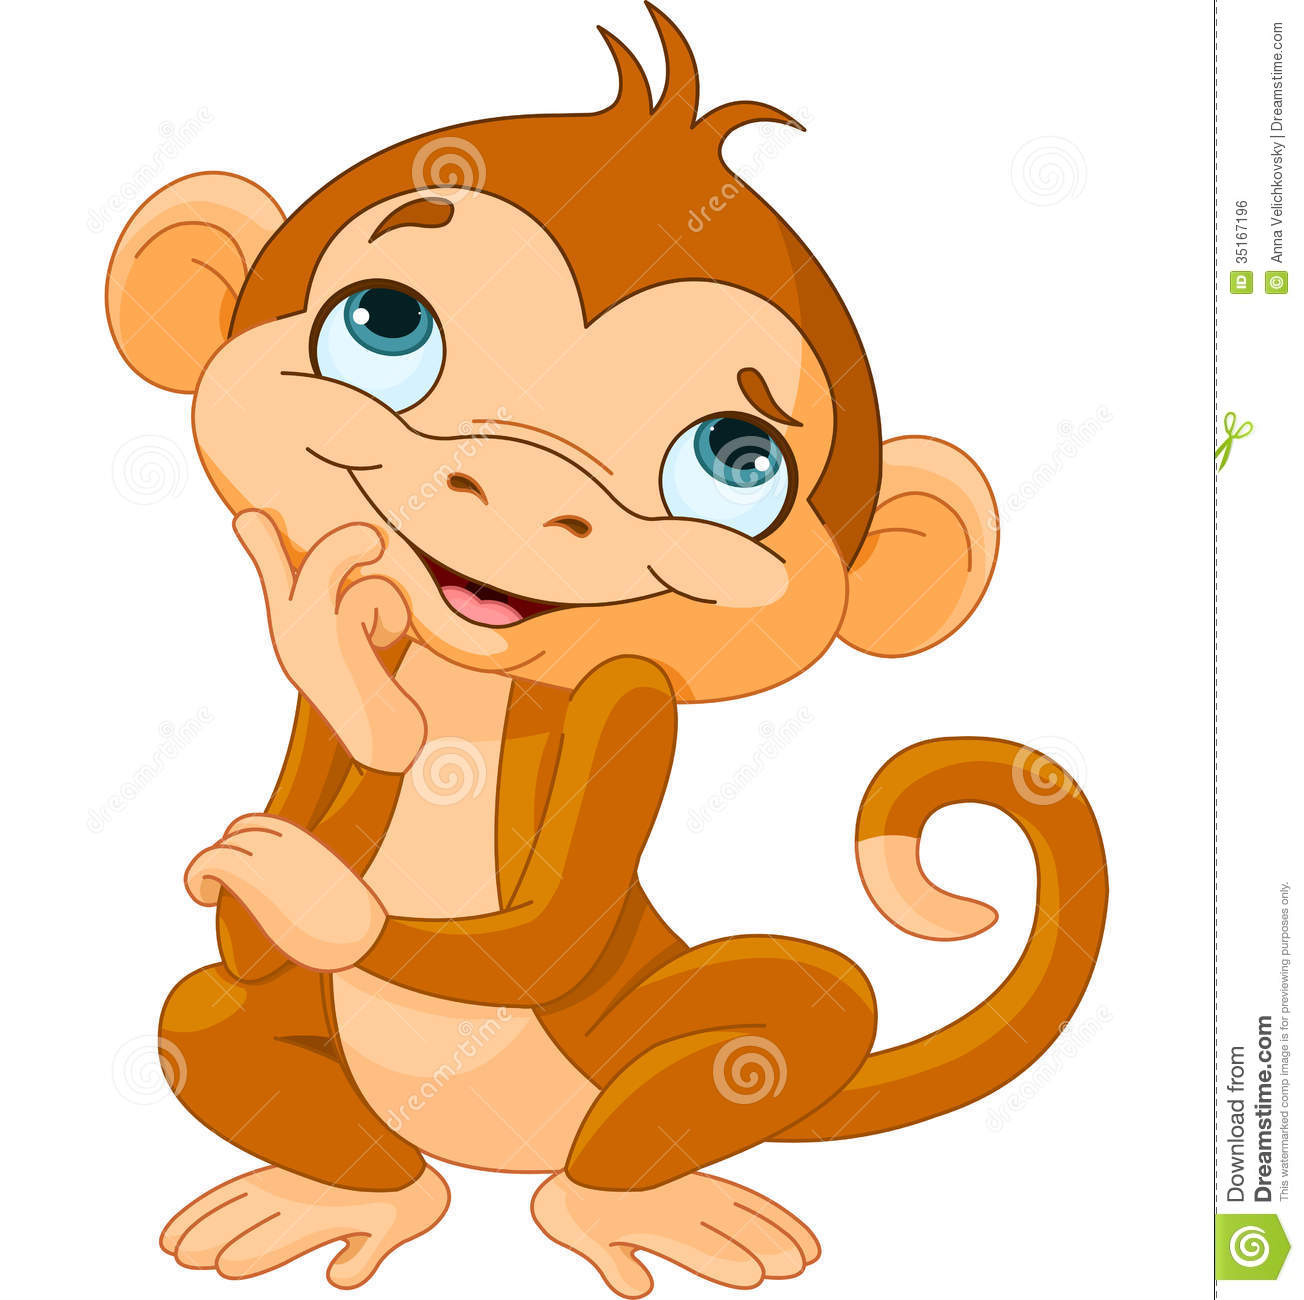
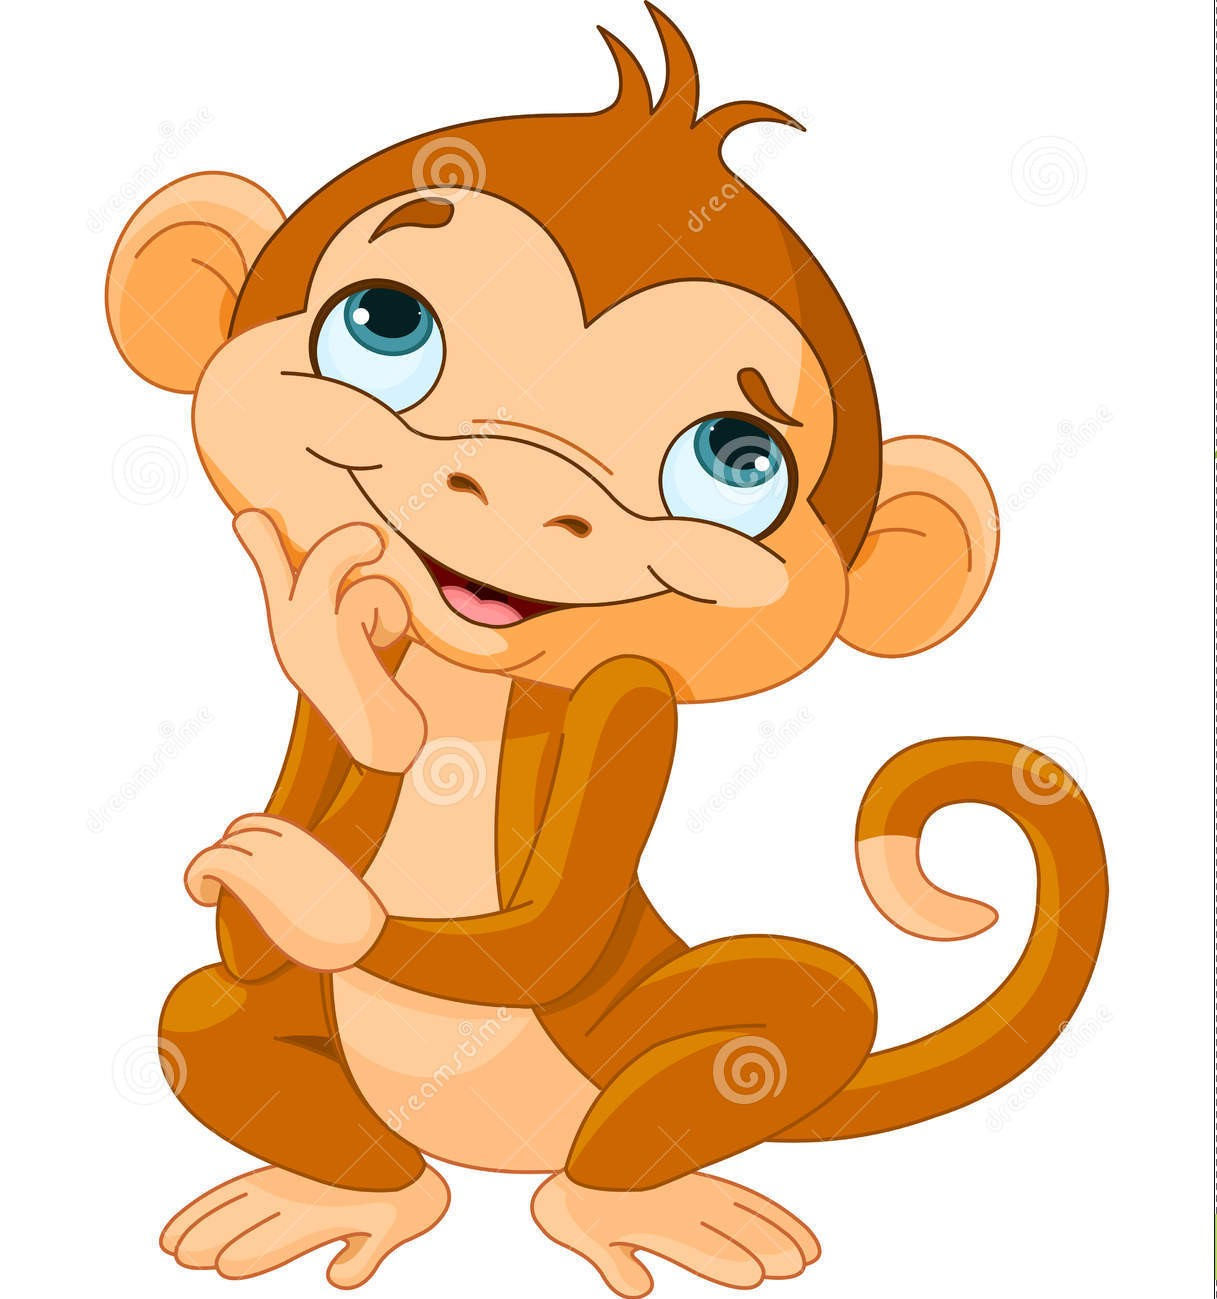
resolving the background image issue

Changed region(s): [[0.0624, 0.0, 0.9367, 1.0], [0.9055, 0.0, 1.0, 1.0], [0.9055, 0.3079, 0.968, 0.3695]]

diff --git a/kids-fun/src/index.scss b/kids-fun/src/index.scss
@@ -48,14 +48,14 @@ Start container
 // 	text-align: center;
 // }
 .start-btn {
-	border:1px solid grey;
+	border:1px solid #F5CD9C;
 	padding: 8px;
 	text-decoration: none;
 	position: absolute;
 	bottom: 40%;
-	left: 17%;
+	left: 15%;
 	background-color: #CB6623;
-	width: 15%;
+	width: 20%;
 	border-radius: 10px;
 	color: #F5CD9C; 
 	&:hover {
@@ -110,12 +110,10 @@ game container
 	grid-gap: 20px;
 }
 .stuff {
-	// border: 1px solid rgb(20, 12, 12);
-	padding: 5px 6px;
+	padding: 10px 6px;
 	text-align: center;
 	font-weight: 600;
 	box-shadow: 0 0 7px .5px #bdc0c8;
-	// background-color: rgba(147, 181, 185, 0.959);
 	transition: all 0.5s ease-in-out;
 	&:hover {
 		transform: scale(1.1);
@@ -143,6 +141,7 @@ game container
 	font-size: 25px;
 	font-weight: 600;
 	letter-spacing: 0.1rem;
+	text-decoration: underline;
 }
 .correct-ans {
 	box-shadow: none;

diff --git a/kids-fun/src/reducers/index.js b/kids-fun/src/reducers/index.js
@@ -62,7 +62,6 @@ export default (state=initState, action) => {
 		}
 		case 'ON_DROP': {
 			const itemsArr = [...state.data];
-			// const index = itemsArr.indexOf(action.value);
 
 			let valuesArr = []
 			for(const item of itemsArr) {
@@ -72,9 +71,6 @@ export default (state=initState, action) => {
 			const index = valuesArr.indexOf(action.value)
 
 			const item = itemsArr[index];
-
-			console.log(action.value);
-			console.log(item, 'item')
 
 			const droppedObject = {...state.dropObj};
 

diff --git a/kids-fun/src/components/kidsGame.js b/kids-fun/src/components/kidsGame.js
@@ -23,7 +23,7 @@ handleDrop = (value) => {
 		const { items, attemptsLeft, score } = this.props;
 		// if(!items.length) return <Redirect to="/"/>
 		if(attemptsLeft === 0) {
-			alert('Game Over');
+			alert(`Game Over! Your score is ${score}`);
 			this.props.history.push('/');
 			return <div>''</div>
 		}
